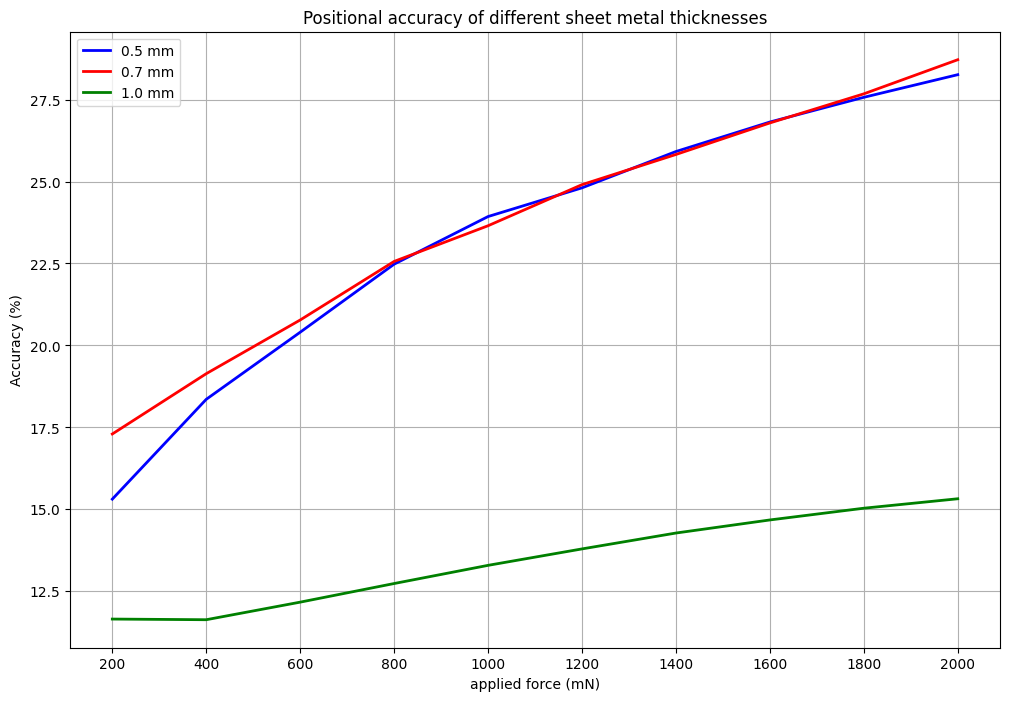
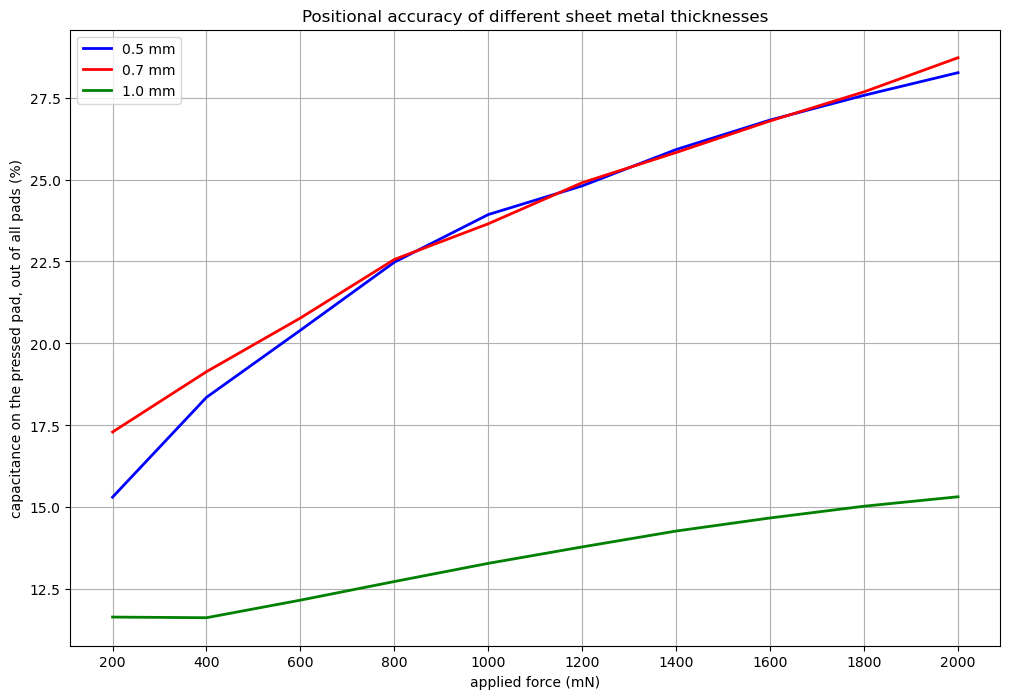
change axis description of positional accuracy

diff --git a/software/calculations/positional_acc_cap_disp.py b/software/calculations/positional_acc_cap_disp.py
@@ -67,7 +67,7 @@ def get_pos_acc():
     pyplot.legend()
     pyplot.title("Positional accuracy of different sheet metal thicknesses")
     pyplot.xlabel("applied force (mN)")
-    pyplot.ylabel("Accuracy (%)")
+    pyplot.ylabel("capacitance on the pressed pad, out of total capacitance (%)")
     pyplot.xticks(forces)
     pyplot.grid()
     
